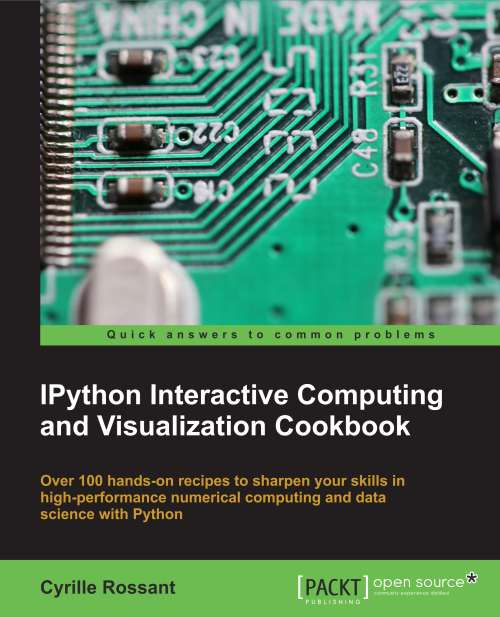
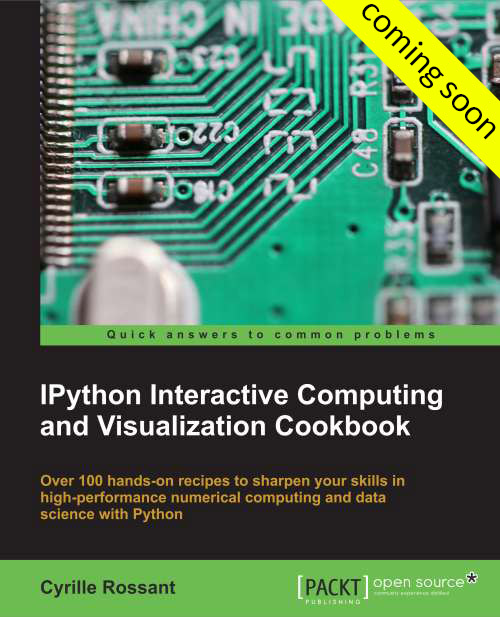
Added link to minibook.

Changed region(s): [[0.63, 0.0, 1.0, 0.3079], [0.18, 0.2464, 0.21, 0.2771]]

diff --git a/experimental/bootstrap/index.html b/experimental/bootstrap/index.html
@@ -95,7 +95,7 @@
 <div class="container-fluid coming">
     <div class="row">
         <div class="center-block">
-            <p><i class="fa fa-calendar"></i> coming this summer!</p>
+            <p><i class="fa fa-book"></i> newbie? check out the <a href="http://ipython.rossant.net">IPython mini-book</a></p>
         </div>
     </div>
 </div>
